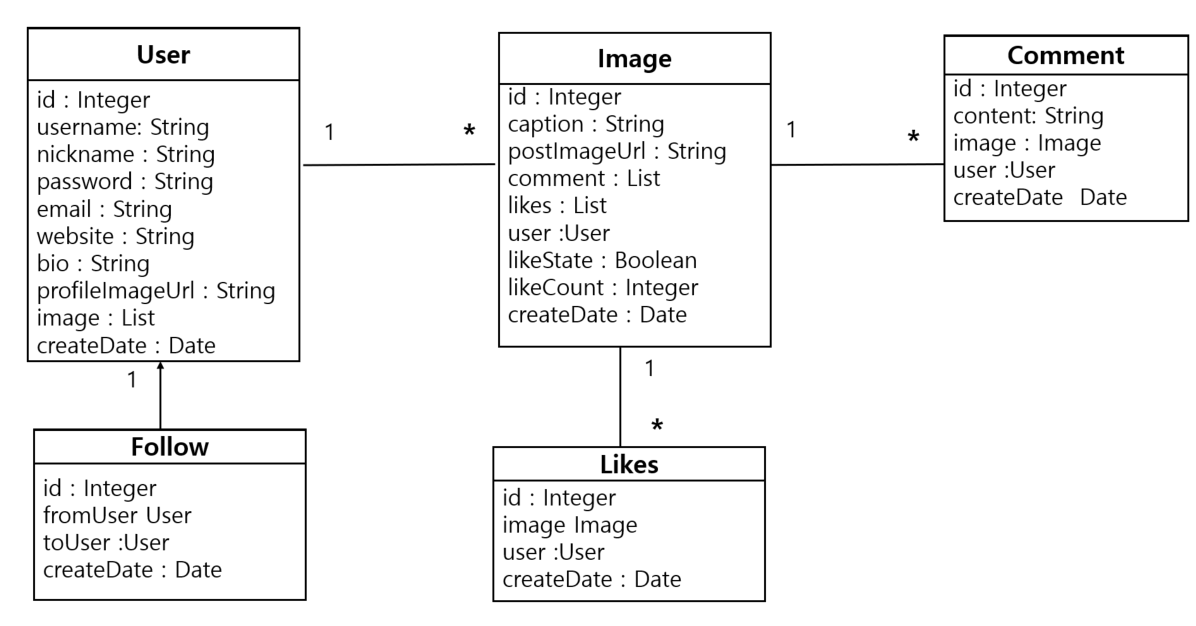
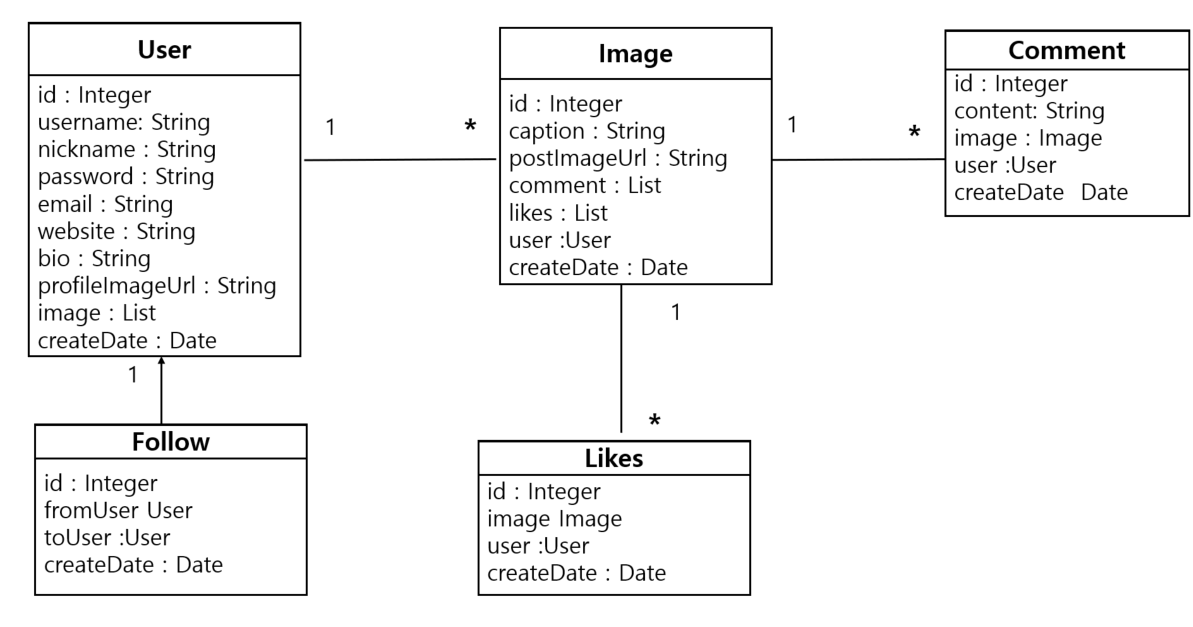
[refactor] 팔로우 한 유저 게시글 가져오기 entity -> DTO

Changed region(s): [[0.0, 0.0304, 1.0, 0.9712], [0.4032, 0.5463, 0.6513, 0.9712]]

diff --git a/src/test/java/com/cos/photogramstart/domain/image/ImageRepositoryImplTest.java b/src/test/java/com/cos/photogramstart/domain/image/ImageRepositoryImplTest.java
@@ -1,8 +1,10 @@
 package com.cos.photogramstart.domain.image;
 
 import com.cos.photogramstart.domain.likes.QLikes;
+import com.cos.photogramstart.web.dto.image.ImageData;
 import com.cos.photogramstart.web.dto.image.ImagePopularDto;
 import com.querydsl.core.Tuple;
+import com.querydsl.core.types.ExpressionUtils;
 import com.querydsl.core.types.Projections;
 import com.querydsl.jpa.JPAExpressions;
 import com.querydsl.jpa.impl.JPAQuery;
@@ -10,6 +12,7 @@ import com.querydsl.jpa.impl.JPAQueryFactory;
 import org.junit.jupiter.api.BeforeEach;
 import org.junit.jupiter.api.Test;
 import org.springframework.boot.test.context.SpringBootTest;
+import org.springframework.transaction.annotation.Transactional;
 
 import javax.persistence.EntityManager;
 import javax.persistence.PersistenceContext;
@@ -22,6 +25,7 @@ import static com.cos.photogramstart.domain.likes.QLikes.*;
 import static org.junit.jupiter.api.Assertions.*;
 
 @SpringBootTest
+@Transactional
 class ImageRepositoryImplTest {
     @PersistenceContext
     EntityManager em;
@@ -71,6 +75,22 @@ class ImageRepositoryImplTest {
         }
     }
 
+    @Test void getStory3(){
+        int principalId = 1;
+        List<ImageData> storyData = queryFactory
+                .select(Projections.fields(ImageData.class,
+                        image,
+                        ExpressionUtils.as(JPAExpressions.select(likes.id.count()).from(likes).where(likes.image.id.eq(image.id)),"likeCount"),
+                        ExpressionUtils.as(JPAExpressions.select().from(likes).where(likes.user.id.eq(principalId)).exists()
+                                , "likeState")
+                ))
+                .from(image)
+                .where(image.user.id.in(JPAExpressions.select(follow.toUser.id).from(follow)
+                        .where(follow.fromUser.id.eq(principalId)))).orderBy(image.createDate.desc()).fetch();
+        for (ImageData story : storyData){
+            System.out.println("story = " + story.getImage() + story.getLikeCount() + story.isLikeState());
+        }
+    }
     @Test
     public void popular() {
         List<Tuple> fetch = queryFactory

diff --git a/src/main/java/com/cos/photogramstart/service/ImageService.java b/src/main/java/com/cos/photogramstart/service/ImageService.java
@@ -3,6 +3,7 @@ package com.cos.photogramstart.service;
 import com.cos.photogramstart.config.auth.PrincipalDetails;
 import com.cos.photogramstart.domain.image.Image;
 import com.cos.photogramstart.domain.image.ImageRepository;
+import com.cos.photogramstart.web.dto.image.ImageData;
 import com.cos.photogramstart.web.dto.image.ImagePopularDto;
 import com.cos.photogramstart.web.dto.image.ImageUploadDto;
 import lombok.RequiredArgsConstructor;
@@ -33,28 +34,20 @@ public class ImageService {
     @Transactional(readOnly = true)
     public Page<Image> select(int principalId , Pageable pageable ){
         Page<Image> images = imageRepository.mStory(principalId ,pageable);
-        images.forEach(image ->{
-            image.setLikeCount(image.getLikes().size());
-            image.getLikes().forEach(like->{
-                if (like.getUser().getId() == principalId){
-                 image.setLikeState(true);
-                }
-            });
-        });
+//        images.forEach(image ->{
+//            image.setLikeCount(image.getLikes().size());
+//            image.getLikes().forEach(like->{
+//                if (like.getUser().getId() == principalId){
+//                 image.setLikeState(true);
+//                }
+//            });
+//        });
         return images;
     }
 
     @Transactional(readOnly = true)
-    public List<Image> selectImages(int principalId ){
-        List<Image> images = imageRepository.getStory(principalId);
-        images.forEach(image ->{
-            image.setLikeCount(image.getLikes().size());
-            image.getLikes().forEach(like->{
-                if (like.getUser().getId() == principalId){
-                    image.setLikeState(true);
-                }
-            });
-        });
+    public List<ImageData> selectImages(int principalId ){
+        List<ImageData> images = imageRepository.getStory(principalId);
         return images;
     }
 

diff --git a/src/main/java/com/cos/photogramstart/domain/image/ImageRepositoryImpl.java b/src/main/java/com/cos/photogramstart/domain/image/ImageRepositoryImpl.java
@@ -1,7 +1,10 @@
 package com.cos.photogramstart.domain.image;
 
 import com.cos.photogramstart.domain.folllow.QFollow;
+import com.cos.photogramstart.domain.likes.QLikes;
+import com.cos.photogramstart.web.dto.image.ImageData;
 import com.cos.photogramstart.web.dto.image.ImagePopularDto;
+import com.querydsl.core.types.ExpressionUtils;
 import com.querydsl.core.types.Projections;
 import com.querydsl.jpa.JPAExpressions;
 import com.querydsl.jpa.impl.JPAQuery;
@@ -23,12 +26,18 @@ public class ImageRepositoryImpl implements ImageRepositoryCustom {
     }
 
     @Override
-    public List<Image> getStory(int principalId) {
-        List<Image> storys = queryFactory
-                .selectFrom(image)
+    public List<ImageData> getStory(int principalId) {
+        List<ImageData> storyData = queryFactory
+                .select(Projections.fields(ImageData.class,
+                        image,
+                        ExpressionUtils.as(JPAExpressions.select(likes.id.count()).from(likes).where(likes.image.id.eq(image.id)),"likeCount"),
+                        ExpressionUtils.as(JPAExpressions.select().from(likes).where(likes.user.id.eq(principalId)).exists()
+                                , "likeState")
+                ))
+                .from(image)
                 .where(image.user.id.in(JPAExpressions.select(follow.toUser.id).from(follow)
                         .where(follow.fromUser.id.eq(principalId)))).orderBy(image.createDate.desc()).fetch();
-        return storys;
+        return storyData;
     }
 
     @Override

diff --git a/src/main/java/com/cos/photogramstart/web/api/ImageApiController.java b/src/main/java/com/cos/photogramstart/web/api/ImageApiController.java
@@ -6,6 +6,7 @@ import com.cos.photogramstart.handler.ex.CustomApiException;
 import com.cos.photogramstart.service.ImageService;
 import com.cos.photogramstart.service.LikesService;
 import com.cos.photogramstart.web.dto.RespDto;
+import com.cos.photogramstart.web.dto.image.ImageData;
 import com.cos.photogramstart.web.dto.image.ImagePopularDto;
 import com.cos.photogramstart.web.dto.image.ImageUploadDto;
 import lombok.RequiredArgsConstructor;
@@ -39,10 +40,7 @@ public class ImageApiController {
         if (principalDetails.getUser() == null){
             return new ResponseEntity<>(new RespDto<>(-1,"로그인이 필요합니다.",null), HttpStatus.OK);
         }
-        List<Image> images = imageService.selectImages(principalDetails.getUser().getId());
-        for (Image image : images) {
-            System.out.println("!!!!!!!!!!!!!!!!!!!image = " + image);
-        }
+        List<ImageData> images = imageService.selectImages(principalDetails.getUser().getId());
         return new ResponseEntity<>(new RespDto<>(1,"성공",images), HttpStatus.OK);
     }
 

diff --git a/src/main/java/com/cos/photogramstart/PhotogramStartApplication.java b/src/main/java/com/cos/photogramstart/PhotogramStartApplication.java
@@ -2,9 +2,6 @@ package com.cos.photogramstart;
 
 import org.springframework.boot.SpringApplication;
 import org.springframework.boot.autoconfigure.SpringBootApplication;
-import org.springframework.context.annotation.Bean;
-import org.springframework.web.servlet.config.annotation.CorsRegistry;
-import org.springframework.web.servlet.config.annotation.WebMvcConfigurer;
 
 @SpringBootApplication
 public class PhotogramStartApplication {

diff --git a/src/main/java/com/cos/photogramstart/web/dto/image/ImageData.java b/src/main/java/com/cos/photogramstart/web/dto/image/ImageData.java
@@ -1,0 +1,16 @@
+package com.cos.photogramstart.web.dto.image;
+
+import com.cos.photogramstart.domain.comment.Comment;
+import com.cos.photogramstart.domain.image.Image;
+import com.cos.photogramstart.domain.user.User;
+import lombok.Getter;
+
+import java.util.List;
+
+@Getter
+public class ImageData {
+
+    private Image image;
+    private boolean likeState;
+    private Long likeCount;
+}

diff --git a/src/main/java/com/cos/photogramstart/domain/image/ImageRepositoryCustom.java b/src/main/java/com/cos/photogramstart/domain/image/ImageRepositoryCustom.java
@@ -1,10 +1,11 @@
 package com.cos.photogramstart.domain.image;
 
+import com.cos.photogramstart.web.dto.image.ImageData;
 import com.cos.photogramstart.web.dto.image.ImagePopularDto;
 
 import java.util.List;
 
 public interface ImageRepositoryCustom {
-    List<Image> getStory(int principalId);
+    List<ImageData> getStory(int principalId);
     List<ImagePopularDto> popular();
 }

diff --git a/src/main/java/com/cos/photogramstart/domain/image/Image.java b/src/main/java/com/cos/photogramstart/domain/image/Image.java
@@ -40,12 +40,6 @@ public class Image { // N : 1
     @OneToMany(mappedBy = "image")
     private List<Comment> comments = new ArrayList<>();
 
-    @Transient
-    private boolean likeState;
-
-    @Transient
-    private int likeCount;
-
     @PrePersist // 디비에 INSERT 되기 직전에 실행
     public void createDate() {
         this.createDate = LocalDateTime.now();

diff --git a/src/main/java/com/cos/photogramstart/service/UserService.java b/src/main/java/com/cos/photogramstart/service/UserService.java
@@ -51,11 +51,6 @@ public class UserService {
         dto.setFollowState(followState == 1);
         dto.setFollowingCount(followingCount);
         dto.setFollowerCount(followerCount);
-
-        // 좋아요 개수
-        userEntity.getImages().forEach(image -> {
-            image.setLikeCount(image.getLikes().size());
-        });
         return dto;
     }
 

diff --git a/README.md b/README.md
@@ -11,9 +11,7 @@
 
 ### 엔티티
 
-
 ![img_2.png](img_2.png)
-
 
 ### 애플리케이션 아키텍처
 
